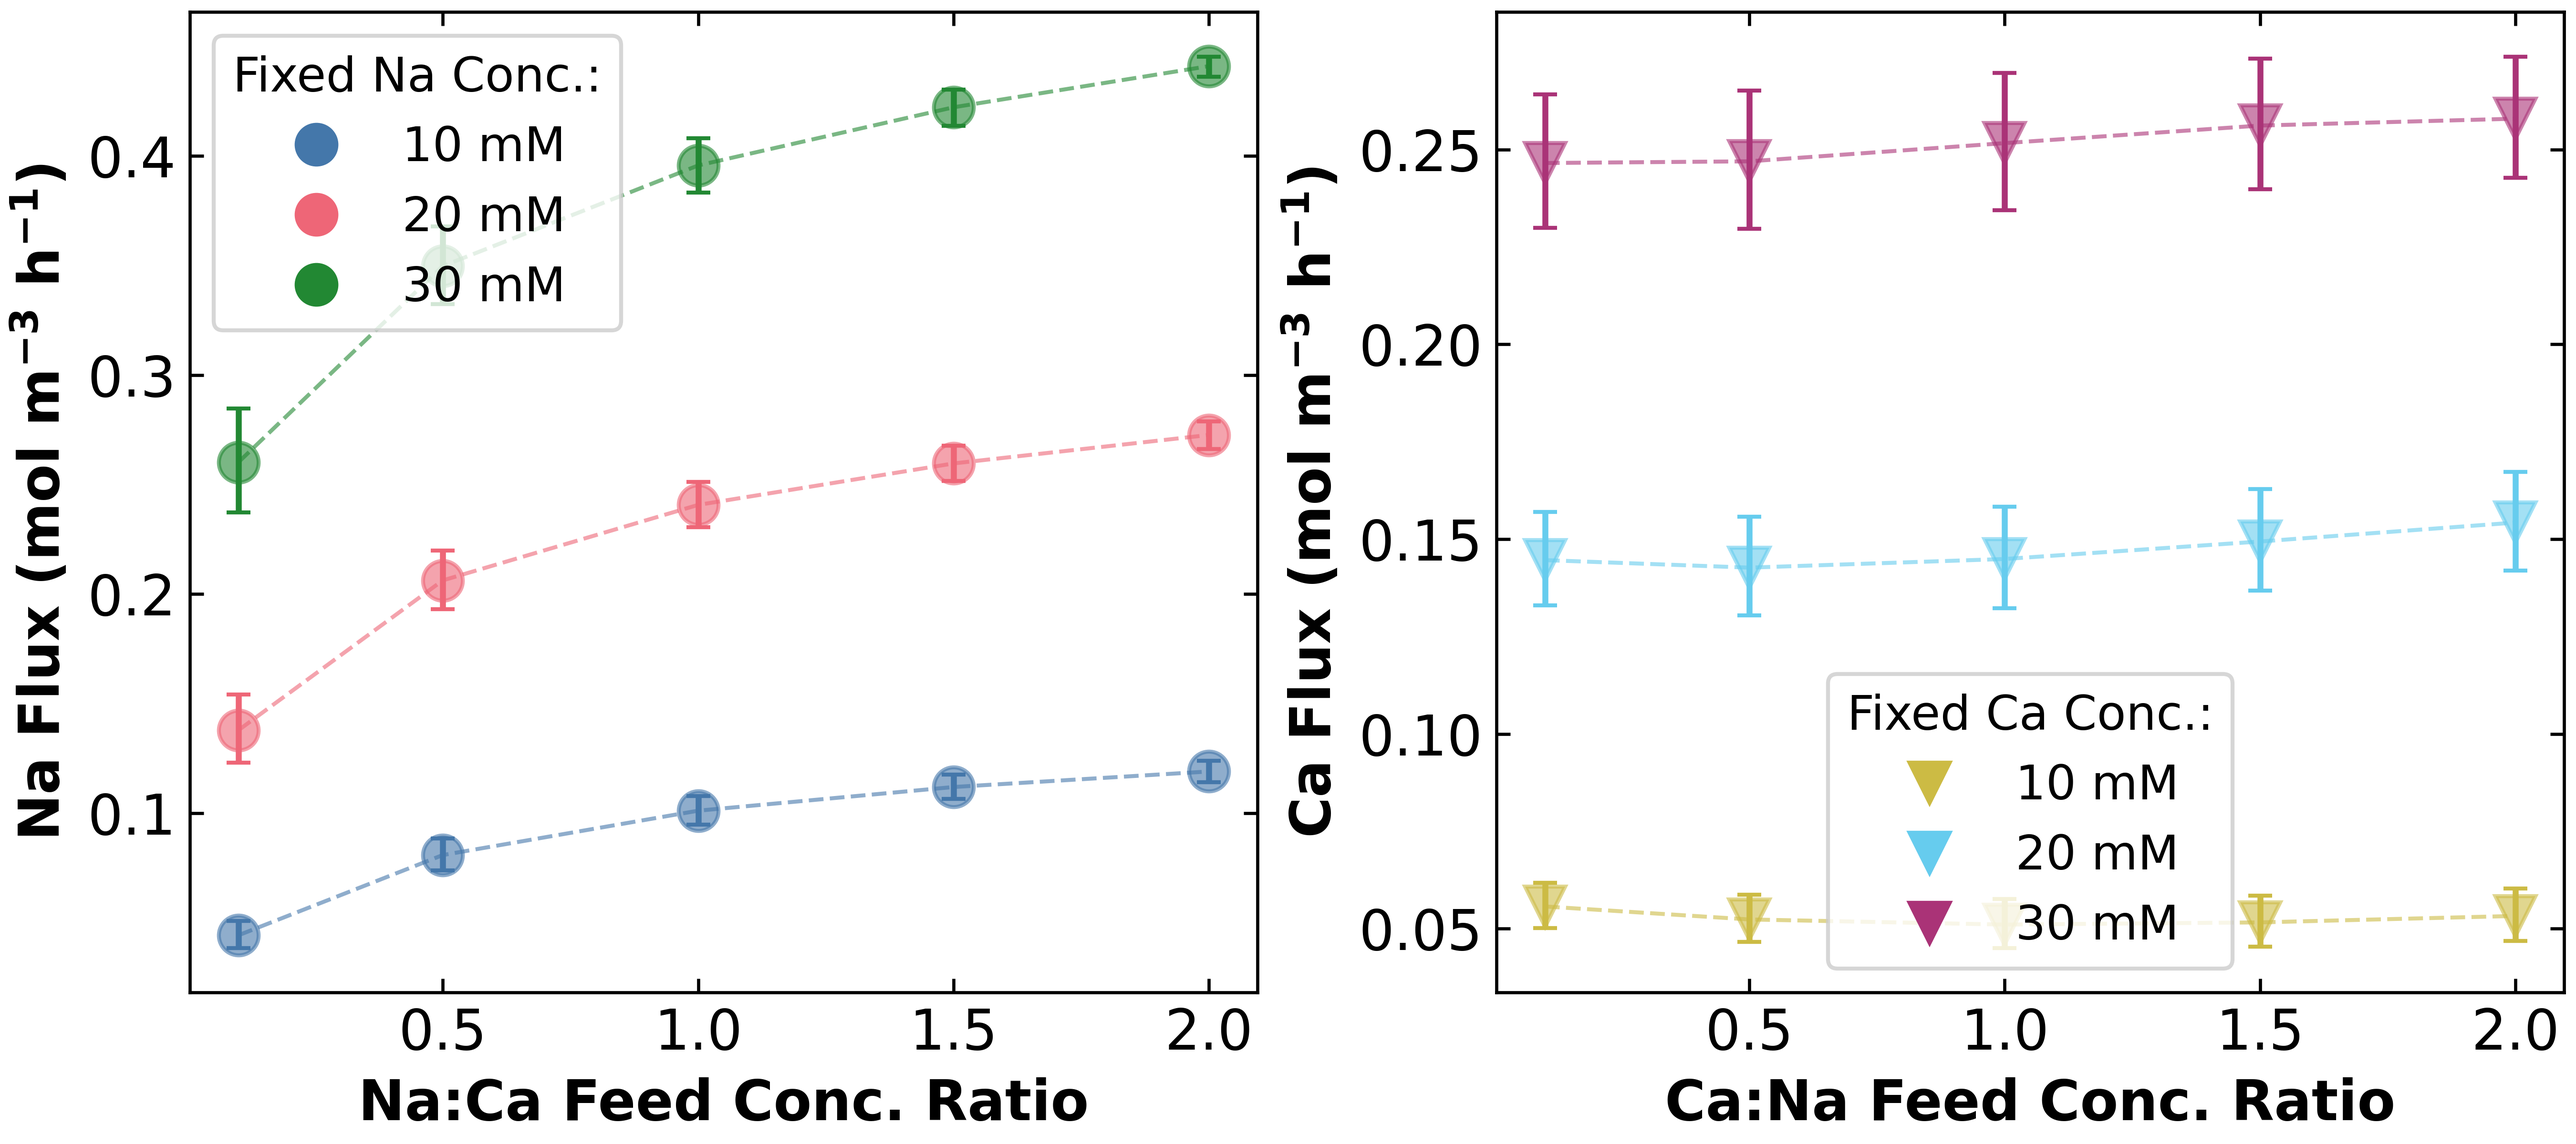
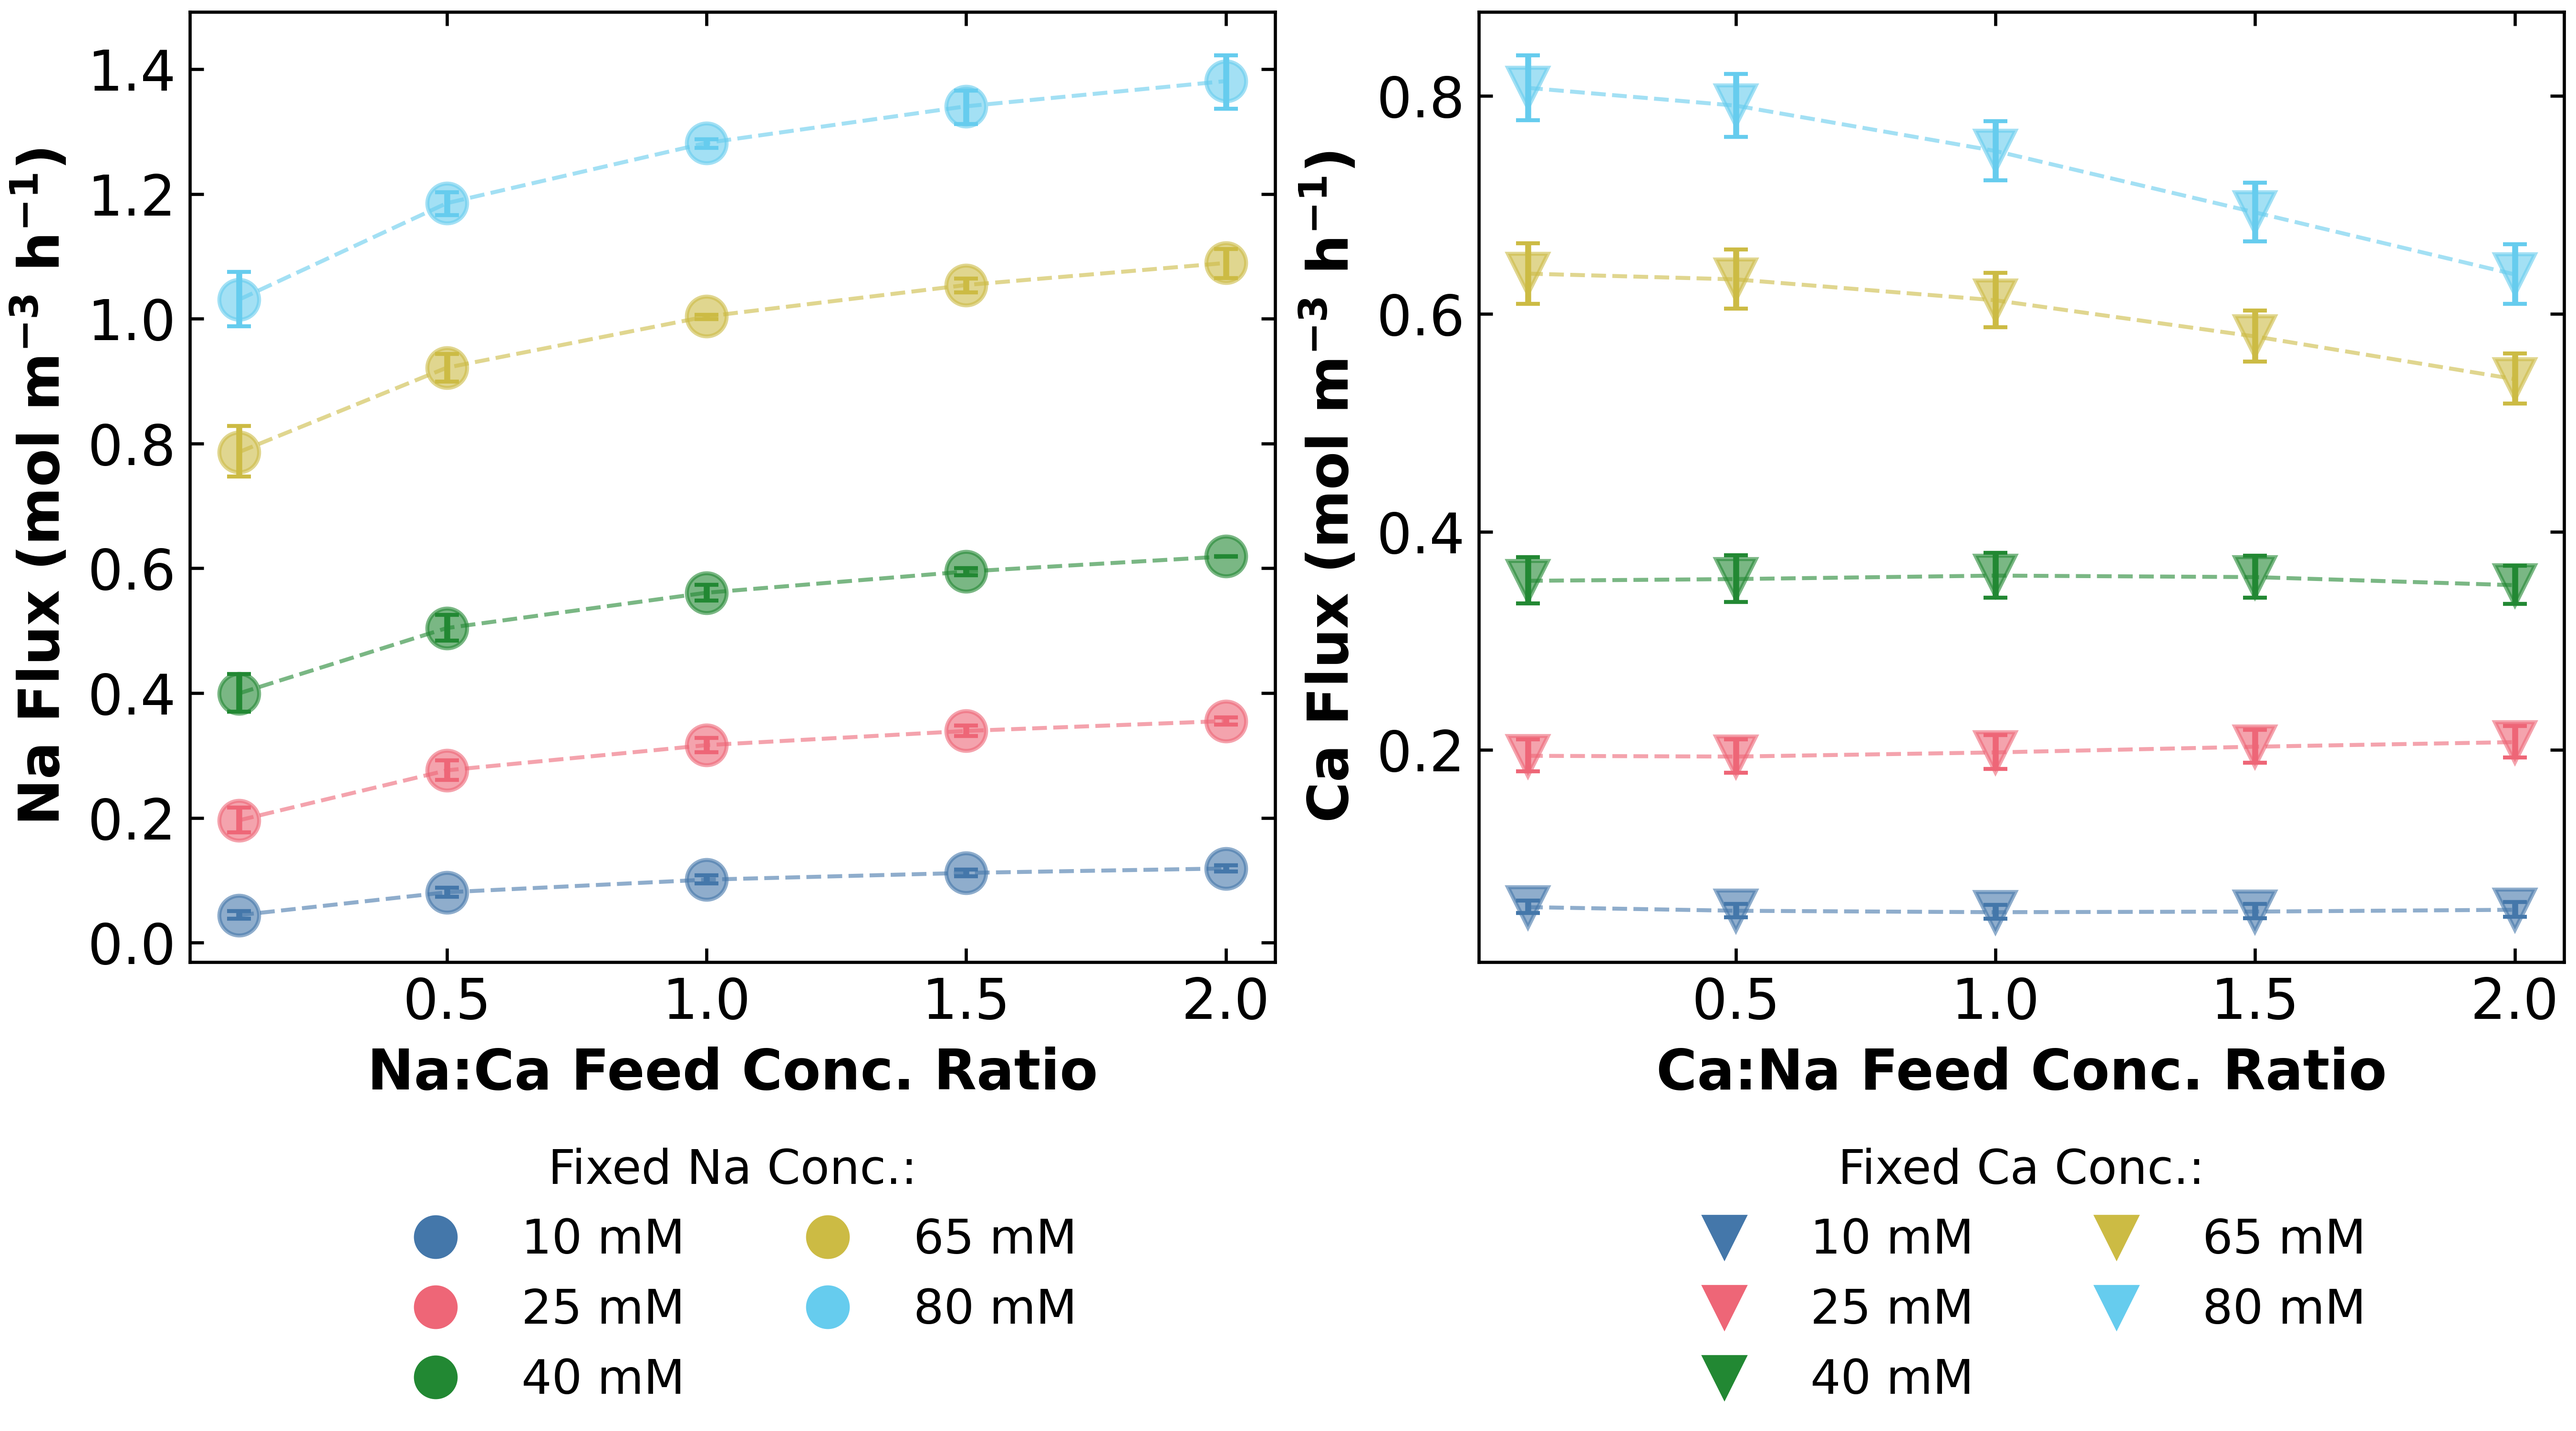
expanded fixed cation concentration in ratio plots

diff --git a/src/prommis/nanofiltration/multi_component_analysis.py b/src/prommis/nanofiltration/multi_component_analysis.py
@@ -155,12 +155,12 @@ def build_model(
             value(m.fs.membrane.feed_ionic_strength[0]) < 199
         ):
             m.fs.membrane.applied_pressure.fix(10)
-        elif (value(m.fs.membrane.feed_ionic_strength[0]) >= 99) and (
-            value(m.fs.membrane.feed_ionic_strength[0]) < 299
-        ):
+        elif value(m.fs.membrane.feed_ionic_strength[0]) >= 199:  # and (
+            # value(m.fs.membrane.feed_ionic_strength[0]) < 299
+            # ):
             m.fs.membrane.applied_pressure.fix(15)
-        elif value(m.fs.membrane.feed_ionic_strength[0]) >= 299:
-            m.fs.membrane.applied_pressure.fix(20)
+        # elif value(m.fs.membrane.feed_ionic_strength[0]) >= 299:
+        # m.fs.membrane.applied_pressure.fix(20)
 
     # add and connect flowsheet streams
     m.fs.feed_stream = Arc(
@@ -197,6 +197,20 @@ def build_model(
             multiplier_H_perm=fudge_factor_H_perm,
         )
         initialized_membrane_model.initialize(m.fs.membrane)
+
+        if (inlet_concentration["feed"][cation_list[0]] == 130) and (
+            inlet_concentration["feed"][cation_list[1]] == 65
+        ):
+            m.fs.membrane.scaling_factor[m.fs.membrane.membrane_D_tilde_calculation] = (
+                1e1
+            )
+        if (inlet_concentration["feed"][cation_list[0]] == 160) and (
+            inlet_concentration["feed"][cation_list[1]] == 80
+        ):
+            m.fs.membrane.scaling_factor[m.fs.membrane.membrane_D_tilde_calculation] = (
+                1e1
+            )
+            m.fs.membrane.scaling_factor[m.fs.membrane.cation_bulk_flux_equation] = 1e1
 
         solve_model(m)
         unfix_pressure(m, water_flux=water_flux)
@@ -472,12 +486,8 @@ def solve_and_save_models(
                     to_json(model, fname=fname)
 
     if run_two_salt_ratios:
-        if one_to_two:
-            RATIO_key = ["001", "005", "010", "015", "020"]
-            ratios = [0.1, 0.5, 1, 1.5, 2]
-        else:
-            RATIO_key = ["020", "015", "010", "005", "001"]
-            ratios = [2, 1.5, 1, 0.5, 0.1]
+        RATIO_key = ["001", "005", "010", "015", "020"]
+        ratios = [0.1, 0.5, 1, 1.5, 2]
 
         Dm_Cl = 2.03  # um2/s
         Dm_over_l_value = 60  # um/s
@@ -498,15 +508,21 @@ def solve_and_save_models(
         cation_1_phi_star_value = monovalent_phi_star_value
         cation_2_phi_star_value = divalent_phi_star_value
 
-        set_cation_conc = [10, 20, 30]
+        set_cation_conc = [10, 25, 40, 65, 80]
 
         for cation_concentration in set_cation_conc:
-            if one_to_two:
-                cation_1_conc = cation_concentration
+            if cation_concentration == 10:
                 initial_ratio = 0.1
             else:
-                cation_2_conc = cation_concentration
+                RATIO_key.reverse()
+                ratios.reverse()
                 initial_ratio = 2
+
+            if one_to_two:
+                cation_1_conc = cation_concentration
+            else:
+                cation_2_conc = cation_concentration
+
             for ratio in ratios:
                 if one_to_two:
                     cation_2_conc = ratio * cation_concentration
@@ -1192,11 +1208,8 @@ def save_figure_data(flux_values=True, flux_contrib=True, ratio=True):
         )
 
     if ratio:
-        RATIO_key_Na_to_Ca = ["001", "005", "010", "015", "020"]
-        ratios_Na_to_Ca = [0.1, 0.5, 1, 1.5, 2]
-
-        RATIO_key_Ca_to_Na = ["020", "015", "010", "005", "001"]
-        ratios_Ca_to_Na = [2, 1.5, 1, 0.5, 0.1]
+        RATIO_key = ["001", "005", "010", "015", "020"]
+        ratios = [0.1, 0.5, 1, 1.5, 2]
 
         model_folder_Na_Ca = Path(
             "multi_component_case_studies/two_salt_ratio/Na_to_Ca"
@@ -1217,11 +1230,19 @@ def save_figure_data(flux_values=True, flux_contrib=True, ratio=True):
                 "Na": {"x": [], "y": [], "y_err": []},
                 "Ca": {"x": [], "y": [], "y_err": []},
             },
-            "Na_20mM": {
+            "Na_25mM": {
                 "Na": {"x": [], "y": [], "y_err": []},
                 "Ca": {"x": [], "y": [], "y_err": []},
             },
-            "Na_30mM": {
+            "Na_40mM": {
+                "Na": {"x": [], "y": [], "y_err": []},
+                "Ca": {"x": [], "y": [], "y_err": []},
+            },
+            "Na_65mM": {
+                "Na": {"x": [], "y": [], "y_err": []},
+                "Ca": {"x": [], "y": [], "y_err": []},
+            },
+            "Na_80mM": {
                 "Na": {"x": [], "y": [], "y_err": []},
                 "Ca": {"x": [], "y": [], "y_err": []},
             },
@@ -1231,11 +1252,19 @@ def save_figure_data(flux_values=True, flux_contrib=True, ratio=True):
                 "Na": {"x": [], "y": [], "y_err": []},
                 "Ca": {"x": [], "y": [], "y_err": []},
             },
-            "Ca_20mM": {
+            "Ca_25mM": {
                 "Na": {"x": [], "y": [], "y_err": []},
                 "Ca": {"x": [], "y": [], "y_err": []},
             },
-            "Ca_30mM": {
+            "Ca_40mM": {
+                "Na": {"x": [], "y": [], "y_err": []},
+                "Ca": {"x": [], "y": [], "y_err": []},
+            },
+            "Ca_65mM": {
+                "Na": {"x": [], "y": [], "y_err": []},
+                "Ca": {"x": [], "y": [], "y_err": []},
+            },
+            "Ca_80mM": {
                 "Na": {"x": [], "y": [], "y_err": []},
                 "Ca": {"x": [], "y": [], "y_err": []},
             },
@@ -1243,7 +1272,7 @@ def save_figure_data(flux_values=True, flux_contrib=True, ratio=True):
 
         for case_study in case_study_list_Na_Ca:
             ratio_key = str(case_study)[58:61]
-            ratio = ratios_Na_to_Ca[RATIO_key_Na_to_Ca.index(ratio_key)]
+            ratio = ratios[RATIO_key.index(ratio_key)]
             cation_1 = str(case_study)[62:64]
             cation_2 = str(case_study)[64:66]
             cation_1_conc = str(case_study)[70:72]
@@ -1292,7 +1321,7 @@ def save_figure_data(flux_values=True, flux_contrib=True, ratio=True):
 
         for case_study in case_study_list_Ca_Na:
             ratio_key = str(case_study)[58:61]
-            ratio = ratios_Ca_to_Na[RATIO_key_Ca_to_Na.index(ratio_key)]
+            ratio = ratios[RATIO_key.index(ratio_key)]
             cation_2 = str(case_study)[62:64]
             cation_1 = str(case_study)[64:66]
             cation_2_conc = str(case_study)[70:72]
@@ -1562,7 +1591,7 @@ def flux_plots_ratios(save_figure=True):
     linewidth = 1
 
     fig1, (ax1a, ax1b) = plt.subplots(
-        1, 2, dpi=100, figsize=(9, 4), constrained_layout=True
+        1, 2, dpi=100, figsize=(9, 5), constrained_layout=True
     )
 
     ax1a.set_xlabel(
@@ -1597,27 +1626,31 @@ def flux_plots_ratios(save_figure=True):
         "#AA3377",
         "#BBBBBB",
     ]
-    na_10mM_color = tol_bright_hex[0]
-    na_20mM_color = tol_bright_hex[1]
-    na_30mM_color = tol_bright_hex[2]
-    ca_10mM_color = tol_bright_hex[3]
-    ca_20mM_color = tol_bright_hex[4]
-    ca_30mM_color = tol_bright_hex[5]
+    _10mM_color = tol_bright_hex[0]
+    _25mM_color = tol_bright_hex[1]
+    _40mM_color = tol_bright_hex[2]
+    _65mM_color = tol_bright_hex[3]
+    _80mM_color = tol_bright_hex[4]
+    # ca_40mM_color = tol_bright_hex[5]
 
     legend_dict_1a = {
         "marker": "o",
         "salt_colors": {
-            "10 mM": na_10mM_color,
-            "20 mM": na_20mM_color,
-            "30 mM": na_30mM_color,
+            "10 mM": _10mM_color,
+            "25 mM": _25mM_color,
+            "40 mM": _40mM_color,
+            "65 mM": _65mM_color,
+            "80 mM": _80mM_color,
         },
     }
     legend_dict_1b = {
         "marker": "v",
         "salt_colors": {
-            "10 mM": ca_10mM_color,
-            "20 mM": ca_20mM_color,
-            "30 mM": ca_30mM_color,
+            "10 mM": _10mM_color,
+            "25 mM": _25mM_color,
+            "40 mM": _40mM_color,
+            "65 mM": _65mM_color,
+            "80 mM": _80mM_color,
         },
     }
 
@@ -1642,15 +1675,22 @@ def flux_plots_ratios(save_figure=True):
             label=salt,
         )
 
-    # for ax in fig1.axes:
     ax1a.legend(
-        loc="best",
+        # loc="best",
+        loc="upper center",
+        bbox_to_anchor=(0.5, -0.15),
+        ncols=2,
+        frameon=False,
         fontsize=fontsize - 2,
         title="Fixed Na Conc.:",
         title_fontsize=fontsize - 2,
     )
     ax1b.legend(
-        loc="best",
+        # loc="best",
+        loc="upper center",
+        bbox_to_anchor=(0.5, -0.15),
+        ncols=2,
+        frameon=False,
         fontsize=fontsize - 2,
         title="Fixed Ca Conc.:",
         title_fontsize=fontsize - 2,
@@ -1675,11 +1715,15 @@ def flux_plots_ratios(save_figure=True):
             marker = "o"
 
             if conc_1_info == "Na_10mM":
-                color = na_10mM_color
-            elif conc_1_info == "Na_20mM":
-                color = na_20mM_color
-            elif conc_1_info == "Na_30mM":
-                color = na_30mM_color
+                color = _10mM_color
+            elif conc_1_info == "Na_25mM":
+                color = _25mM_color
+            elif conc_1_info == "Na_40mM":
+                color = _40mM_color
+            elif conc_1_info == "Na_65mM":
+                color = _65mM_color
+            elif conc_1_info == "Na_80mM":
+                color = _80mM_color
 
             if cation == "Na":
                 ax_flux = ax1a
@@ -1711,11 +1755,15 @@ def flux_plots_ratios(save_figure=True):
             marker = "v"
 
             if conc_2_info == "Ca_10mM":
-                color = ca_10mM_color
-            elif conc_2_info == "Ca_20mM":
-                color = ca_20mM_color
-            elif conc_2_info == "Ca_30mM":
-                color = ca_30mM_color
+                color = _10mM_color
+            elif conc_2_info == "Ca_25mM":
+                color = _25mM_color
+            elif conc_2_info == "Ca_40mM":
+                color = _40mM_color
+            elif conc_2_info == "Ca_65mM":
+                color = _65mM_color
+            elif conc_2_info == "Ca_80mM":
+                color = _80mM_color
 
             if cation == "Ca":
                 ax_flux = ax1b
